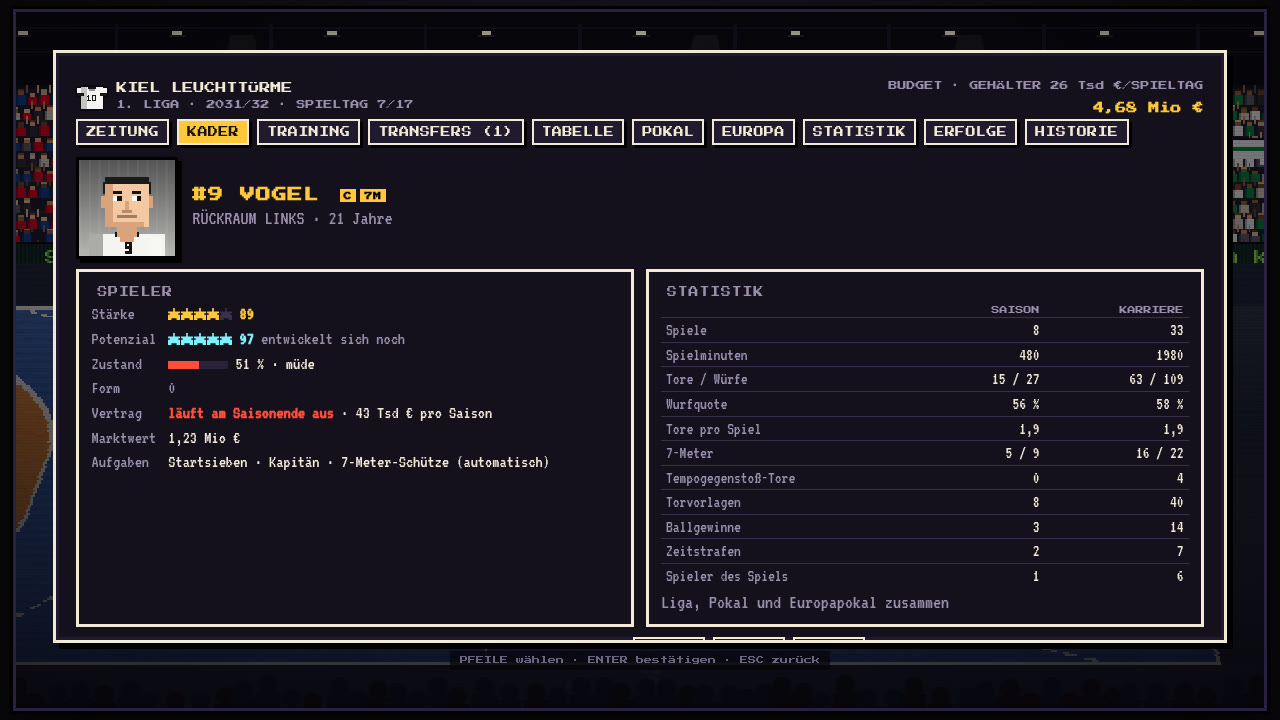
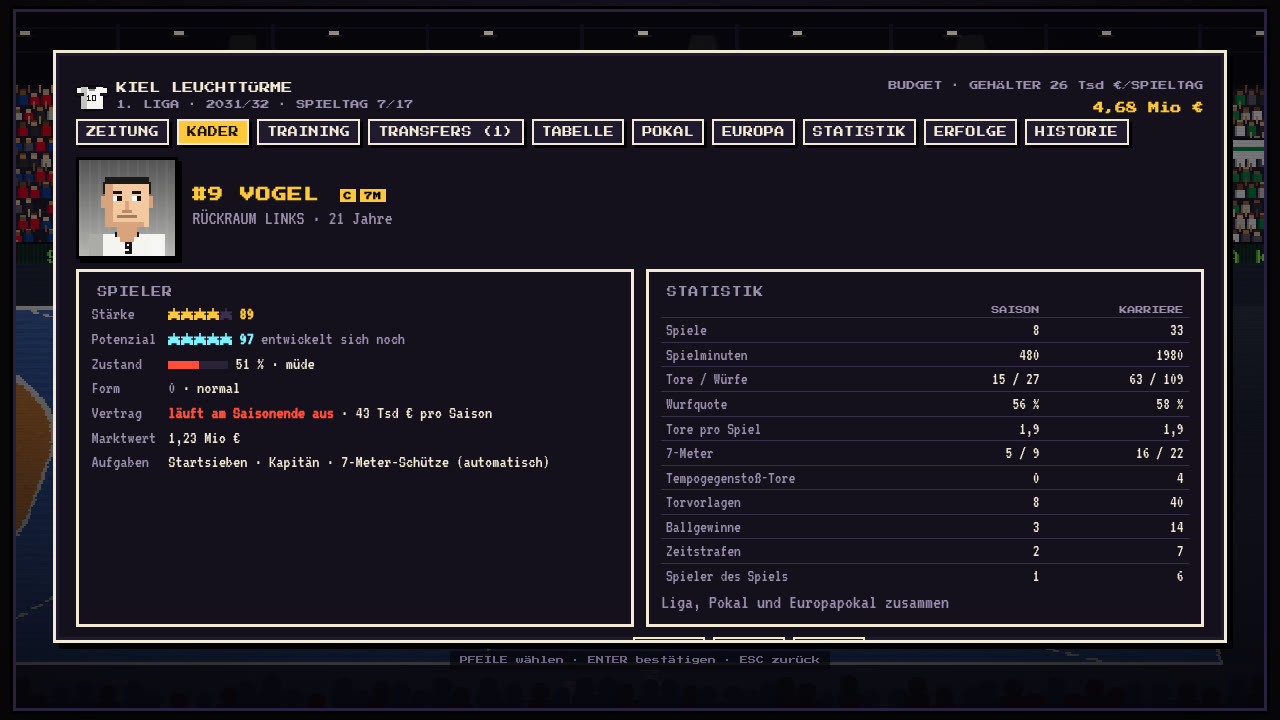
Spielerkarte: Fokus bleibt auf dem Knopf, Ämter frei nach Abgang
Aus dem Test der Netlify-Vorschau:
- Mit Gamepad und Tastatur sprang der Fokus nach STATISTIK, 7-METER,
  KAPITÄN oder BANK zu den Reitern nach oben. Er bleibt jetzt auf dem
  gedrückten Knopf (SOFORTVERKAUF bewusst nicht, wegen der Rückfrage)
- Verkaufter oder abgewanderter Kapitän bzw. 7-Meter-Schütze blieb
  gesetzt: Kapitänsamt wird frei (mit Zeitungsmeldung), die 7-Meter
  wirft wieder der beste Werfer auf dem Feld
- Form auf der Karte mit Wort (normal, gut drauf, in Topform …)
- Kartentest prüft Fokus und Verkauf; Screenshot erneuert

Claude-Session: https://claude.ai/code/session_01KKDZCGMYGcypLRLX9DG4SL

diff --git a/game/index.html b/game/index.html
@@ -2782,7 +2782,12 @@ if (CAREER && CAREER.v !== 1) CAREER = null;
 if (CAREER && !(CAREER.squads && typeof CAREER.squads === 'object' && CAREER.lgOf && CAREER.season && CAREER.season.table && Array.isArray(CAREER.season.fixtures) && TEAMS[CAREER.team] && CAREER.squads[CAREER.team])) {
   store.set(CAREER_KEY + '_defekt', CAREER); store.del(CAREER_KEY); CAREER = null;
 }
-function saveCareer() { if (CAREER) store.set(CAREER_KEY, CAREER); }
+function saveCareer() { if (CAREER) { dropGoneRoles(); store.set(CAREER_KEY, CAREER); } }
+function dropGoneRoles() {   // Kapitän oder 7-Meter-Schütze hat den Verein verlassen (Verkauf, Vertragsende, Karriereende): Amt wird frei
+  const sq = CAREER.squads[CAREER.team], gone = pid => pid && !sq.some(p => p.pid === pid), c = gone(CAREER.capt), s = gone(CAREER.seven);
+  if (c) { CAREER.capt = null; news('Die Kapitänsbinde ist frei: Bestimme im Kader einen neuen Kapitän.'); }
+  if (s) CAREER.seven = null;   // die 7-Meter wirft wieder der beste Werfer auf dem Feld
+}
 const careerStamp = () => CAREER ? `${CAREER.year}-${CAREER.season.round}` : '';
 const SEASON_LENS = [{ n: 'KURZ · 6', v: 6 }, { n: 'HINRUNDE · 17', v: 17 }, { n: 'VOLL · 34', v: 34 }];
 const TRAINING = [
@@ -3934,7 +3939,7 @@ function playerDetail(p) {
       <dt>Stärke</dt><dd>${stars(starsOf(ovr(p)), 'var(--gold)')} <b style="color:var(--gold)">${ovr(p)}</b></dd>
       <dt>Potenzial</dt><dd>${stars(starsOf(potOf(p)), 'var(--cyan)')} <b style="color:var(--cyan)">${potOf(p)}</b> <span class="muted">${POT_TXT[potTrend(p)]}</span></dd>
       <dt>Zustand</dt><dd>${fitBar(fit, 60)} ${fit} % · ${zust}</dd>
-      <dt>Form</dt><dd>${formTxt(p.form)}</dd>
+      <dt>Form</dt><dd>${formTxt(p.form)} · ${['in der Krise', 'schwach', 'etwas schwach', 'normal', 'gut drauf', 'stark', 'in Topform'][Math.round(p.form) + 3]}</dd>
       <dt>Vertrag</dt><dd>${p.vt <= 1 ? '<b style="color:var(--hot)">läuft am Saisonende aus</b>' : `noch ${p.vt} Saisons`} · ${euro((p.sal || salaryFor(p)) * REF_LEN)} pro Saison</dd>
       <dt>Marktwert</dt><dd>${euro(pValue(p))}</dd>
       <dt>Aufgaben</dt><dd>${[p.start ? 'Startsieben' : 'Bank', capt && 'Kapitän', isSeven ? '7-Meter-Schütze' : autoSeven ? '7-Meter-Schütze (automatisch)' : ''].filter(Boolean).join(' · ')}</dd>
@@ -4102,9 +4107,12 @@ function careerHub(tab) {
       CAREER.history.map(h => `<tr><td class="c-name"><span class="hm-only">${seasonName(h.year)} · ${h.lg}. Liga · Platz ${h.pos}</span><span class="hd-only">${seasonName(h.year)}</span></td><td class="hd-only">${h.lg}.</td><td class="hd-only">${h.pos}</td><td data-l="ZIEL" style="color:${h.met ? 'var(--green)' : h.met === false ? 'var(--hot)' : 'inherit'}">${esc(h.goal || '–')}</td><td data-l="MEISTER">${esc(TEAMS[h.champ].short)}</td><td data-l="POKAL" style="${h.cup === CAREER.team ? 'color:var(--gold)' : ''}">${h.cup !== null && h.cup !== undefined ? esc(TEAMS[h.cup].short) : '–'}</td><td data-l="EUROPA" style="${h.euro === CAREER.team ? 'color:var(--gold)' : ''}">${h.euro !== null && h.euro !== undefined ? esc(TEAMS[h.euro].short) : '–'}${h.euroMy && h.euro !== CAREER.team ? ` <span class="muted">(${esc(h.euroMy)})</span>` : ''}</td><td data-l="TORJÄGER">${h.top ? `${esc(h.top.name)} (${h.top.n})` : '–'}</td></tr>`).join('')}</tbody></table>` : '<p class="muted">Noch keine abgeschlossene Saison.</p>';
     body += `<div class="row"><button data-act="cDel">${CDEL ? 'WIRKLICH LÖSCHEN? JA' : 'KARRIERE LÖSCHEN'}</button>${CDEL ? '<button data-act="cTab" data-v="hist">NEIN</button>' : ''}</div>`;
   }
+  // Auf der Spielerkarte bleibt der Fokus auf dem gedrückten Knopf (STATISTIK, 7-METER, KAPITÄN, BANK), sonst springt er bei Pad und Tastatur nach oben
+  const ae = document.activeElement, keep = CSEL && ae && ae.closest && ae.closest('.pcard') && ae.dataset.act !== 'cSell' ? [ae.dataset.act, ae.dataset.v || ''] : null;
   showMenu(`<div class="panel wide"><div class="csticky">${head}${tabs()}</div>${CMSG ? `<p style="margin:0;color:var(--hot)">${esc(CMSG)}</p>` : ''}${body}<div class="row"><button data-act="main">HAUPTMENÜ</button></div></div>`);
   const c = menu.querySelector('#pdC'); if (c && CSEL) { const p = CAREER.squads[CAREER.team].find(x => x.pid === CSEL); if (p) c.getContext('2d').drawImage(portrait(p, { c1: me.home.c1, c2: me.home.c2, gk: me.gkc }), 0, 0); }
   const on = menu.querySelector('.ctabs .on'); if (on) on.scrollIntoView({ block: 'nearest', inline: 'center' });
+  if (keep) { const same = a => a === keep[0] || (/^c(Bench|Start)$/.test(a) && /^c(Bench|Start)$/.test(keep[0])), k = [...menu.querySelectorAll('.pcard [data-act]')].find(b => same(b.dataset.act) && (b.dataset.v || '') === keep[1]); if (k) k.focus({ preventScroll: true }); }
   CMSG = ''; if (CTAB !== 'hist') CDEL = false;
 }
 function seasonSummary() {

diff --git a/hallen-legenden.html b/hallen-legenden.html
@@ -2773,7 +2773,12 @@ if (CAREER && CAREER.v !== 1) CAREER = null;
 if (CAREER && !(CAREER.squads && typeof CAREER.squads === 'object' && CAREER.lgOf && CAREER.season && CAREER.season.table && Array.isArray(CAREER.season.fixtures) && TEAMS[CAREER.team] && CAREER.squads[CAREER.team])) {
   store.set(CAREER_KEY + '_defekt', CAREER); store.del(CAREER_KEY); CAREER = null;
 }
-function saveCareer() { if (CAREER) store.set(CAREER_KEY, CAREER); }
+function saveCareer() { if (CAREER) { dropGoneRoles(); store.set(CAREER_KEY, CAREER); } }
+function dropGoneRoles() {   // Kapitän oder 7-Meter-Schütze hat den Verein verlassen (Verkauf, Vertragsende, Karriereende): Amt wird frei
+  const sq = CAREER.squads[CAREER.team], gone = pid => pid && !sq.some(p => p.pid === pid), c = gone(CAREER.capt), s = gone(CAREER.seven);
+  if (c) { CAREER.capt = null; news('Die Kapitänsbinde ist frei: Bestimme im Kader einen neuen Kapitän.'); }
+  if (s) CAREER.seven = null;   // die 7-Meter wirft wieder der beste Werfer auf dem Feld
+}
 const careerStamp = () => CAREER ? `${CAREER.year}-${CAREER.season.round}` : '';
 const SEASON_LENS = [{ n: 'KURZ · 6', v: 6 }, { n: 'HINRUNDE · 17', v: 17 }, { n: 'VOLL · 34', v: 34 }];
 const TRAINING = [
@@ -3925,7 +3930,7 @@ function playerDetail(p) {
       <dt>Stärke</dt><dd>${stars(starsOf(ovr(p)), 'var(--gold)')} <b style="color:var(--gold)">${ovr(p)}</b></dd>
       <dt>Potenzial</dt><dd>${stars(starsOf(potOf(p)), 'var(--cyan)')} <b style="color:var(--cyan)">${potOf(p)}</b> <span class="muted">${POT_TXT[potTrend(p)]}</span></dd>
       <dt>Zustand</dt><dd>${fitBar(fit, 60)} ${fit} % · ${zust}</dd>
-      <dt>Form</dt><dd>${formTxt(p.form)}</dd>
+      <dt>Form</dt><dd>${formTxt(p.form)} · ${['in der Krise', 'schwach', 'etwas schwach', 'normal', 'gut drauf', 'stark', 'in Topform'][Math.round(p.form) + 3]}</dd>
       <dt>Vertrag</dt><dd>${p.vt <= 1 ? '<b style="color:var(--hot)">läuft am Saisonende aus</b>' : `noch ${p.vt} Saisons`} · ${euro((p.sal || salaryFor(p)) * REF_LEN)} pro Saison</dd>
       <dt>Marktwert</dt><dd>${euro(pValue(p))}</dd>
       <dt>Aufgaben</dt><dd>${[p.start ? 'Startsieben' : 'Bank', capt && 'Kapitän', isSeven ? '7-Meter-Schütze' : autoSeven ? '7-Meter-Schütze (automatisch)' : ''].filter(Boolean).join(' · ')}</dd>
@@ -4093,9 +4098,12 @@ function careerHub(tab) {
       CAREER.history.map(h => `<tr><td class="c-name"><span class="hm-only">${seasonName(h.year)} · ${h.lg}. Liga · Platz ${h.pos}</span><span class="hd-only">${seasonName(h.year)}</span></td><td class="hd-only">${h.lg}.</td><td class="hd-only">${h.pos}</td><td data-l="ZIEL" style="color:${h.met ? 'var(--green)' : h.met === false ? 'var(--hot)' : 'inherit'}">${esc(h.goal || '–')}</td><td data-l="MEISTER">${esc(TEAMS[h.champ].short)}</td><td data-l="POKAL" style="${h.cup === CAREER.team ? 'color:var(--gold)' : ''}">${h.cup !== null && h.cup !== undefined ? esc(TEAMS[h.cup].short) : '–'}</td><td data-l="EUROPA" style="${h.euro === CAREER.team ? 'color:var(--gold)' : ''}">${h.euro !== null && h.euro !== undefined ? esc(TEAMS[h.euro].short) : '–'}${h.euroMy && h.euro !== CAREER.team ? ` <span class="muted">(${esc(h.euroMy)})</span>` : ''}</td><td data-l="TORJÄGER">${h.top ? `${esc(h.top.name)} (${h.top.n})` : '–'}</td></tr>`).join('')}</tbody></table>` : '<p class="muted">Noch keine abgeschlossene Saison.</p>';
     body += `<div class="row"><button data-act="cDel">${CDEL ? 'WIRKLICH LÖSCHEN? JA' : 'KARRIERE LÖSCHEN'}</button>${CDEL ? '<button data-act="cTab" data-v="hist">NEIN</button>' : ''}</div>`;
   }
+  // Auf der Spielerkarte bleibt der Fokus auf dem gedrückten Knopf (STATISTIK, 7-METER, KAPITÄN, BANK), sonst springt er bei Pad und Tastatur nach oben
+  const ae = document.activeElement, keep = CSEL && ae && ae.closest && ae.closest('.pcard') && ae.dataset.act !== 'cSell' ? [ae.dataset.act, ae.dataset.v || ''] : null;
   showMenu(`<div class="panel wide"><div class="csticky">${head}${tabs()}</div>${CMSG ? `<p style="margin:0;color:var(--hot)">${esc(CMSG)}</p>` : ''}${body}<div class="row"><button data-act="main">HAUPTMENÜ</button></div></div>`);
   const c = menu.querySelector('#pdC'); if (c && CSEL) { const p = CAREER.squads[CAREER.team].find(x => x.pid === CSEL); if (p) c.getContext('2d').drawImage(portrait(p, { c1: me.home.c1, c2: me.home.c2, gk: me.gkc }), 0, 0); }
   const on = menu.querySelector('.ctabs .on'); if (on) on.scrollIntoView({ block: 'nearest', inline: 'center' });
+  if (keep) { const same = a => a === keep[0] || (/^c(Bench|Start)$/.test(a) && /^c(Bench|Start)$/.test(keep[0])), k = [...menu.querySelectorAll('.pcard [data-act]')].find(b => same(b.dataset.act) && (b.dataset.v || '') === keep[1]); if (k) k.focus({ preventScroll: true }); }
   CMSG = ''; if (CTAB !== 'hist') CDEL = false;
 }
 function seasonSummary() {

diff --git a/src/p14_career_ui.js b/src/p14_career_ui.js
@@ -115,7 +115,7 @@ function playerDetail(p) {
       <dt>Stärke</dt><dd>${stars(starsOf(ovr(p)), 'var(--gold)')} <b style="color:var(--gold)">${ovr(p)}</b></dd>
       <dt>Potenzial</dt><dd>${stars(starsOf(potOf(p)), 'var(--cyan)')} <b style="color:var(--cyan)">${potOf(p)}</b> <span class="muted">${POT_TXT[potTrend(p)]}</span></dd>
       <dt>Zustand</dt><dd>${fitBar(fit, 60)} ${fit} % · ${zust}</dd>
-      <dt>Form</dt><dd>${formTxt(p.form)}</dd>
+      <dt>Form</dt><dd>${formTxt(p.form)} · ${['in der Krise', 'schwach', 'etwas schwach', 'normal', 'gut drauf', 'stark', 'in Topform'][Math.round(p.form) + 3]}</dd>
       <dt>Vertrag</dt><dd>${p.vt <= 1 ? '<b style="color:var(--hot)">läuft am Saisonende aus</b>' : `noch ${p.vt} Saisons`} · ${euro((p.sal || salaryFor(p)) * REF_LEN)} pro Saison</dd>
       <dt>Marktwert</dt><dd>${euro(pValue(p))}</dd>
       <dt>Aufgaben</dt><dd>${[p.start ? 'Startsieben' : 'Bank', capt && 'Kapitän', isSeven ? '7-Meter-Schütze' : autoSeven ? '7-Meter-Schütze (automatisch)' : ''].filter(Boolean).join(' · ')}</dd>
@@ -283,9 +283,12 @@ function careerHub(tab) {
       CAREER.history.map(h => `<tr><td class="c-name"><span class="hm-only">${seasonName(h.year)} · ${h.lg}. Liga · Platz ${h.pos}</span><span class="hd-only">${seasonName(h.year)}</span></td><td class="hd-only">${h.lg}.</td><td class="hd-only">${h.pos}</td><td data-l="ZIEL" style="color:${h.met ? 'var(--green)' : h.met === false ? 'var(--hot)' : 'inherit'}">${esc(h.goal || '–')}</td><td data-l="MEISTER">${esc(TEAMS[h.champ].short)}</td><td data-l="POKAL" style="${h.cup === CAREER.team ? 'color:var(--gold)' : ''}">${h.cup !== null && h.cup !== undefined ? esc(TEAMS[h.cup].short) : '–'}</td><td data-l="EUROPA" style="${h.euro === CAREER.team ? 'color:var(--gold)' : ''}">${h.euro !== null && h.euro !== undefined ? esc(TEAMS[h.euro].short) : '–'}${h.euroMy && h.euro !== CAREER.team ? ` <span class="muted">(${esc(h.euroMy)})</span>` : ''}</td><td data-l="TORJÄGER">${h.top ? `${esc(h.top.name)} (${h.top.n})` : '–'}</td></tr>`).join('')}</tbody></table>` : '<p class="muted">Noch keine abgeschlossene Saison.</p>';
     body += `<div class="row"><button data-act="cDel">${CDEL ? 'WIRKLICH LÖSCHEN? JA' : 'KARRIERE LÖSCHEN'}</button>${CDEL ? '<button data-act="cTab" data-v="hist">NEIN</button>' : ''}</div>`;
   }
+  // Auf der Spielerkarte bleibt der Fokus auf dem gedrückten Knopf (STATISTIK, 7-METER, KAPITÄN, BANK), sonst springt er bei Pad und Tastatur nach oben
+  const ae = document.activeElement, keep = CSEL && ae && ae.closest && ae.closest('.pcard') && ae.dataset.act !== 'cSell' ? [ae.dataset.act, ae.dataset.v || ''] : null;
   showMenu(`<div class="panel wide"><div class="csticky">${head}${tabs()}</div>${CMSG ? `<p style="margin:0;color:var(--hot)">${esc(CMSG)}</p>` : ''}${body}<div class="row"><button data-act="main">HAUPTMENÜ</button></div></div>`);
   const c = menu.querySelector('#pdC'); if (c && CSEL) { const p = CAREER.squads[CAREER.team].find(x => x.pid === CSEL); if (p) c.getContext('2d').drawImage(portrait(p, { c1: me.home.c1, c2: me.home.c2, gk: me.gkc }), 0, 0); }
   const on = menu.querySelector('.ctabs .on'); if (on) on.scrollIntoView({ block: 'nearest', inline: 'center' });
+  if (keep) { const same = a => a === keep[0] || (/^c(Bench|Start)$/.test(a) && /^c(Bench|Start)$/.test(keep[0])), k = [...menu.querySelectorAll('.pcard [data-act]')].find(b => same(b.dataset.act) && (b.dataset.v || '') === keep[1]); if (k) k.focus({ preventScroll: true }); }
   CMSG = ''; if (CTAB !== 'hist') CDEL = false;
 }
 function seasonSummary() {

diff --git a/src/p13_career.js b/src/p13_career.js
@@ -6,7 +6,12 @@ if (CAREER && CAREER.v !== 1) CAREER = null;
 if (CAREER && !(CAREER.squads && typeof CAREER.squads === 'object' && CAREER.lgOf && CAREER.season && CAREER.season.table && Array.isArray(CAREER.season.fixtures) && TEAMS[CAREER.team] && CAREER.squads[CAREER.team])) {
   store.set(CAREER_KEY + '_defekt', CAREER); store.del(CAREER_KEY); CAREER = null;
 }
-function saveCareer() { if (CAREER) store.set(CAREER_KEY, CAREER); }
+function saveCareer() { if (CAREER) { dropGoneRoles(); store.set(CAREER_KEY, CAREER); } }
+function dropGoneRoles() {   // Kapitän oder 7-Meter-Schütze hat den Verein verlassen (Verkauf, Vertragsende, Karriereende): Amt wird frei
+  const sq = CAREER.squads[CAREER.team], gone = pid => pid && !sq.some(p => p.pid === pid), c = gone(CAREER.capt), s = gone(CAREER.seven);
+  if (c) { CAREER.capt = null; news('Die Kapitänsbinde ist frei: Bestimme im Kader einen neuen Kapitän.'); }
+  if (s) CAREER.seven = null;   // die 7-Meter wirft wieder der beste Werfer auf dem Feld
+}
 const careerStamp = () => CAREER ? `${CAREER.year}-${CAREER.season.round}` : '';
 const SEASON_LENS = [{ n: 'KURZ · 6', v: 6 }, { n: 'HINRUNDE · 17', v: 17 }, { n: 'VOLL · 34', v: 34 }];
 const TRAINING = [

diff --git a/CHANGELOG.md b/CHANGELOG.md
@@ -11,7 +11,9 @@ Alle Versionen bis v7.8 entstanden am 1. Oktober 2026 in einer durchgehenden Ent
 - **Kapitän** wählbar, mit Abzeichen „C“ in Kader und Spielerkarte (die Wirkung auf die Stimmung kommt mit der nächsten Stufe).
 - **AUF DIE BANK:** Der beste gesunde Ersatz auf derselben Position rückt in die Startsieben.
 - Laufende Karrieren: Die Statistik zählt ab dem Update, die Karte zeigt, ab wann.
-- README mit Screenshot der Spielerkarte. 1 neuer Regressionstest (simulierte und gespielte Partie stimmig, ligaweite Quoten plausibel, 7-Meter-Schütze wirkt, Karte, Bank, Saisonwechsel), insgesamt 39; der Dauerlauf prüft die Statistik jedes Spielers nach jedem Spieltag
+- Verlässt der Kapitän den Verein (Verkauf, Vertragsende, Karriereende), wird die Binde frei, und die Zeitung erinnert daran. Geht der 7-Meter-Schütze, wirft wieder der beste Werfer auf dem Feld.
+- Mit Gamepad und Tastatur bleibt der Fokus auf dem gedrückten Kartenknopf (STATISTIK, 7-METER, KAPITÄN, BANK), statt nach oben zu den Reitern zu springen. Die Form steht mit Wort da („normal“, „in Topform“ …).
+- README mit Screenshot der Spielerkarte. 1 neuer Regressionstest (simulierte und gespielte Partie stimmig, ligaweite Quoten plausibel, 7-Meter-Schütze wirkt, Karte, Bank, Saisonwechsel, Fokus, Verkauf), insgesamt 39; der Dauerlauf prüft die Statistik jedes Spielers nach jedem Spieltag
 
 ## v8.17: Editor sicher verlassen, jedes Menüfeld mit dem Gamepad erreichbar
 - **Behoben (#32): ESC, Rücktaste und B im Editor setzten den Verein zurück.** Statt ZURÜCK wurde ZURÜCKSETZEN ausgelöst, alle gespeicherten Änderungen am gerade gewählten Verein waren ohne Nachfrage weg. Das gab es seit der ersten Version. Jetzt verlassen ESC, Rücktaste und B den Editor. ZURÜCKSETZEN fragt beim ersten Druck nach („WIRKLICH ZURÜCKSETZEN?“).
